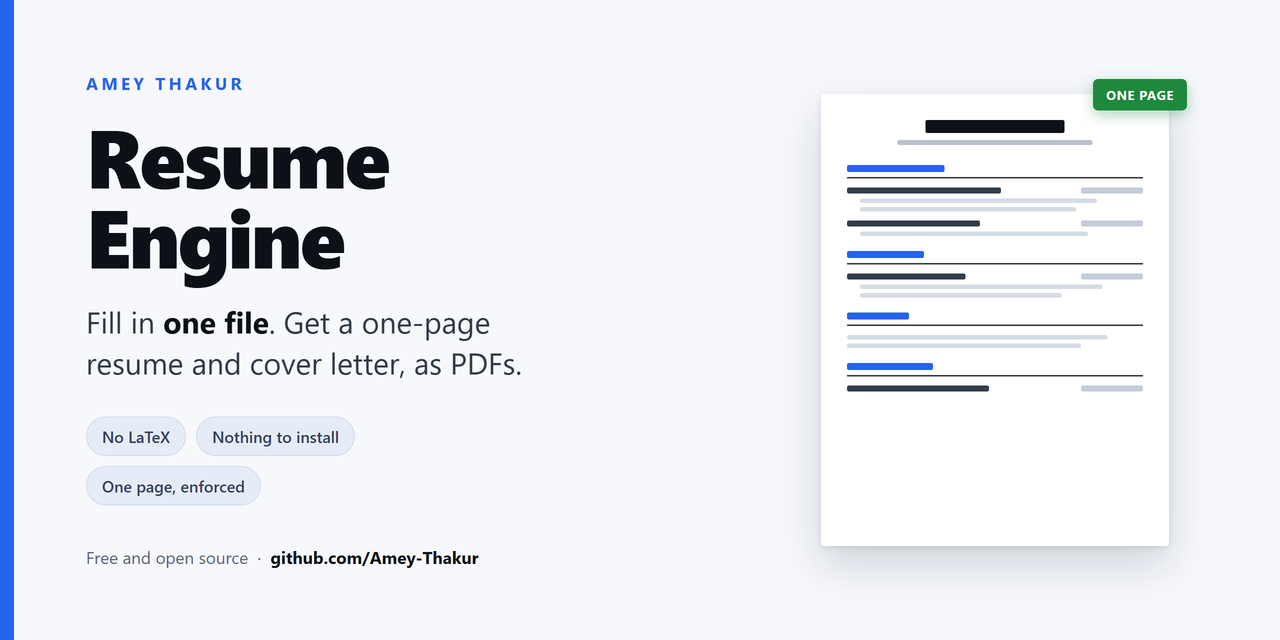
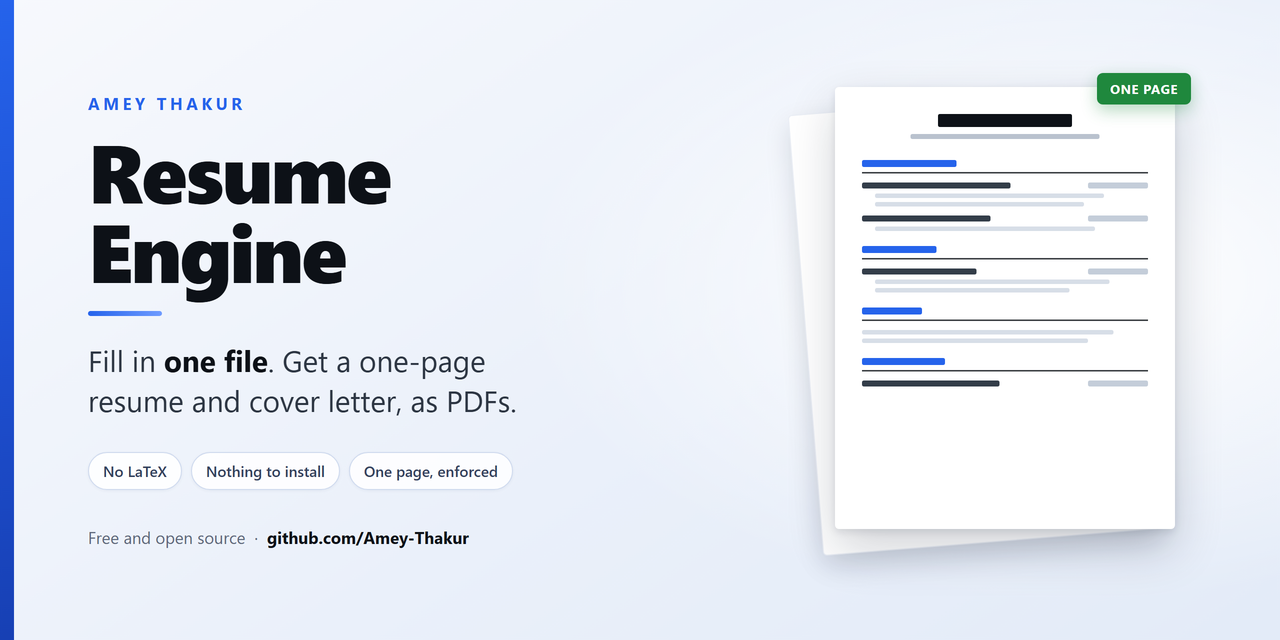
Resume

diff --git a/.github/social_preview.html b/.github/social_preview.html
@@ -1,63 +1,80 @@
 <meta charset="utf-8">
 <title>Resume Engine social preview</title>
 <style>
-  /* 1280x640 is GitHub's social card. It is shown at roughly half that width in
-     a feed, so there are four short lines of text and nothing else to read. The
-     right half shows the thing you actually get, because a picture of the
-     output sells this better than a description of the pipeline. */
+  /* 1280x640 is GitHub's social card, shown at roughly half that width in a
+     feed. Four short lines of text, and a picture of what actually comes out.
+     Two sheets rather than one, because the repository produces two documents
+     and a single sheet quietly undersold that. */
   * { box-sizing: border-box; margin: 0; padding: 0; }
   body {
     width: 1280px; height: 640px; display: flex; overflow: hidden;
     font-family: system-ui, "Segoe UI", Inter, Helvetica, Arial, sans-serif;
-    background: #f6f8fc; color: #0d1117;
-    -webkit-font-smoothing: antialiased;
+    background:
+      radial-gradient(900px 520px at 84% 44%, #ffffff 0%, rgba(255,255,255,0) 62%),
+      linear-gradient(146deg, #f7f9fd 0%, #eaf0fa 58%, #e3ebf8 100%);
+    color: #0d1117; -webkit-font-smoothing: antialiased;
   }
-  .edge { width: 14px; height: 100%; background: #2563eb; flex: 0 0 auto; }
+  .edge { width: 14px; height: 100%; flex: 0 0 auto;
+          background: linear-gradient(180deg, #2563eb 0%, #1e4fd0 55%, #1740b4 100%); }
 
-  .left { flex: 1 1 0; padding: 74px 0 74px 72px; display: flex;
+  .left { flex: 1 1 0; padding: 74px 0 74px 74px; display: flex;
           flex-direction: column; justify-content: center; }
-  .kicker { font-size: 17px; font-weight: 700; letter-spacing: 3.4px;
-            color: #2563eb; text-transform: uppercase; margin-bottom: 20px; }
-  h1 { font-size: 82px; line-height: 0.98; font-weight: 800;
-       letter-spacing: -2.4px; margin-bottom: 26px; }
-  .lead { font-size: 30px; line-height: 1.36; color: #303a46;
-          max-width: 15.5em; font-weight: 400; }
+  .kicker { font-size: 16.5px; font-weight: 700; letter-spacing: 3.6px;
+            color: #2563eb; text-transform: uppercase; margin-bottom: 16px; }
+  h1 { font-size: 82px; line-height: 0.97; font-weight: 800;
+       letter-spacing: -2.5px; }
+  /* A short accent under the title, the same blue as the edge, so the two ends
+     of the card belong to each other. */
+  .accent { width: 74px; height: 5px; border-radius: 3px; margin: 22px 0 24px;
+            background: linear-gradient(90deg, #2563eb, #6f9bff); }
+  .lead { font-size: 29.5px; line-height: 1.36; color: #2c3542;
+          max-width: 15.6em; }
   .lead b { font-weight: 700; color: #0d1117; }
 
-  .pills { display: flex; gap: 10px; margin-top: 34px; flex-wrap: wrap;
-           max-width: 27em; }
-  .pill { font-size: 16px; font-weight: 600; color: #33415c;
-          background: #e6ecf7; border: 1px solid #d2dcee;
-          padding: 8px 15px; border-radius: 999px; }
+  /* One line, never two. nowrap is the rule; the column is wide enough. */
+  .pills { display: flex; gap: 9px; margin-top: 32px; flex-wrap: nowrap; }
+  .pill { font-size: 15px; font-weight: 600; color: #33415c; white-space: nowrap;
+          background: rgba(255,255,255,.86); border: 1px solid #cfdaee;
+          padding: 8px 14px; border-radius: 999px;
+          box-shadow: 0 1px 3px rgba(19,38,77,.05); }
 
-  .by { margin-top: 40px; font-size: 17px; color: #5b6674; }
+  .by { margin-top: 36px; font-size: 16.5px; color: #5c6779; }
   .by b { color: #0d1117; font-weight: 700; }
 
-  /* The output, drawn rather than screenshotted, so it stays crisp and carries
-     no invented person's details at card size. */
-  .right { flex: 0 0 508px; display: flex; align-items: center;
-           justify-content: center; padding-right: 62px; }
-  .sheet { width: 348px; height: 452px; background: #fff; border-radius: 3px;
-           box-shadow: 0 18px 44px rgba(13,22,44,.17), 0 2px 6px rgba(13,22,44,.09);
-           padding: 26px 26px 0; position: relative; }
-  .sheet .name { height: 13px; width: 47%; margin: 0 auto 7px;
+  .right { flex: 0 0 520px; display: flex; align-items: center;
+           justify-content: center; padding-right: 58px; }
+  .stack { position: relative; width: 372px; height: 466px; }
+
+  .sheet { position: absolute; background: #fff; border-radius: 4px;
+           width: 340px; height: 442px; }
+  /* The cover letter, behind and turned a little, so the card reads as two
+     documents without needing a word to say so. */
+  .back { top: 14px; left: 0; transform: rotate(-4.6deg);
+          box-shadow: 0 10px 26px rgba(13,22,44,.13);
+          border: 1px solid #eaeef5; }
+  .front { top: 0; left: 30px;
+           box-shadow: 0 20px 48px rgba(13,22,44,.19), 0 3px 8px rgba(13,22,44,.10);
+           padding: 27px 27px 0; }
+
+  .front .name { height: 13px; width: 47%; margin: 0 auto 7px;
                  background: #0d1117; border-radius: 2px; }
-  .sheet .contact { height: 5px; width: 66%; margin: 0 auto 20px;
-                    background: #b8c1cd; border-radius: 2px; }
+  .front .contact { height: 5px; width: 66%; margin: 0 auto 21px;
+                    background: #b9c2ce; border-radius: 2px; }
   .sec { margin-bottom: 15px; }
   .sec .h { height: 7px; width: 33%; background: #2563eb; border-radius: 2px;
             margin-bottom: 5px; }
-  .sec .rule { height: 1.5px; background: #0d1117; opacity: .82;
-               margin-bottom: 9px; }
+  .sec .rule { height: 1.5px; background: #0d1117; opacity: .8; margin-bottom: 9px; }
   .row { display: flex; justify-content: space-between; margin-bottom: 5px; }
   .row .a { height: 6px; background: #333d49; border-radius: 2px; }
-  .row .b { height: 6px; width: 21%; background: #c3ccd8; border-radius: 2px; }
-  .bul { height: 4.5px; background: #d5dce5; border-radius: 2px;
+  .row .b { height: 6px; width: 21%; background: #c4cdd9; border-radius: 2px; }
+  .bul { height: 4.5px; background: #d7dee7; border-radius: 2px;
          margin: 0 0 4px 13px; }
-  .tag { position: absolute; right: -18px; top: -15px; background: #1f883d;
+
+
+  .tag { position: absolute; right: -16px; top: -14px; background: #1f883d;
          color: #fff; font-size: 13px; font-weight: 700; letter-spacing: .6px;
-         padding: 7px 13px; border-radius: 5px;
-         box-shadow: 0 5px 14px rgba(31,136,61,.34); }
+         padding: 7px 13px; border-radius: 6px; z-index: 3;
+         box-shadow: 0 6px 16px rgba(31,136,61,.32); }
 </style>
 
 <div class="edge"></div>
@@ -65,6 +82,7 @@
 <div class="left">
   <div class="kicker">Amey Thakur</div>
   <h1>Resume<br>Engine</h1>
+  <div class="accent"></div>
   <p class="lead">Fill in <b>one file</b>. Get a one-page resume and cover letter, as PDFs.</p>
   <div class="pills">
     <span class="pill">No LaTeX</span>
@@ -75,36 +93,40 @@
 </div>
 
 <div class="right">
-  <div class="sheet">
-    <div class="tag">ONE PAGE</div>
-    <div class="name"></div>
-    <div class="contact"></div>
+  <div class="stack">
+    <div class="sheet back"></div>
 
-    <div class="sec">
-      <div class="h"></div><div class="rule"></div>
-      <div class="row"><div class="a" style="width:52%"></div><div class="b"></div></div>
-      <div class="bul" style="width:80%"></div>
-      <div class="bul" style="width:73%"></div>
-      <div class="row" style="margin-top:9px"><div class="a" style="width:45%"></div><div class="b"></div></div>
-      <div class="bul" style="width:77%"></div>
-    </div>
+    <div class="sheet front">
+      <div class="tag">ONE PAGE</div>
+      <div class="name"></div>
+      <div class="contact"></div>
 
-    <div class="sec">
-      <div class="h" style="width:26%"></div><div class="rule"></div>
-      <div class="row"><div class="a" style="width:40%"></div><div class="b"></div></div>
-      <div class="bul" style="width:82%"></div>
-      <div class="bul" style="width:68%"></div>
-    </div>
+      <div class="sec">
+        <div class="h"></div><div class="rule"></div>
+        <div class="row"><div class="a" style="width:52%"></div><div class="b"></div></div>
+        <div class="bul" style="width:80%"></div>
+        <div class="bul" style="width:73%"></div>
+        <div class="row" style="margin-top:9px"><div class="a" style="width:45%"></div><div class="b"></div></div>
+        <div class="bul" style="width:77%"></div>
+      </div>
 
-    <div class="sec">
-      <div class="h" style="width:21%"></div><div class="rule"></div>
-      <div class="bul" style="width:88%;margin-left:0"></div>
-      <div class="bul" style="width:79%;margin-left:0"></div>
-    </div>
+      <div class="sec">
+        <div class="h" style="width:26%"></div><div class="rule"></div>
+        <div class="row"><div class="a" style="width:40%"></div><div class="b"></div></div>
+        <div class="bul" style="width:82%"></div>
+        <div class="bul" style="width:68%"></div>
+      </div>
 
-    <div class="sec">
-      <div class="h" style="width:29%"></div><div class="rule"></div>
-      <div class="row"><div class="a" style="width:48%"></div><div class="b"></div></div>
+      <div class="sec">
+        <div class="h" style="width:21%"></div><div class="rule"></div>
+        <div class="bul" style="width:88%;margin-left:0"></div>
+        <div class="bul" style="width:79%;margin-left:0"></div>
+      </div>
+
+      <div class="sec">
+        <div class="h" style="width:29%"></div><div class="rule"></div>
+        <div class="row"><div class="a" style="width:48%"></div><div class="b"></div></div>
+      </div>
     </div>
   </div>
 </div>
